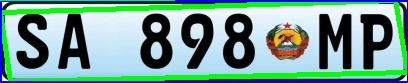
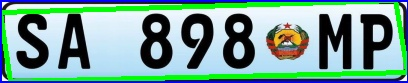
Funcionando um pouco melhor, conseguindo diferenciar H do M

Changed region(s): [[0.0, 0.0, 0.4412, 0.0482]]

diff --git a/trabalho_final_v2/detector.py b/trabalho_final_v2/detector.py
@@ -148,7 +148,7 @@ class DetectorPlacas:
     
     def preparar_para_ocr(self, placa_img):
         """
-        Prepara a imagem da placa para OCR
+        Prepara a imagem da placa para OCR com processamento avançado
         
         Args:
             placa_img: Imagem da placa
@@ -159,33 +159,111 @@ class DetectorPlacas:
         # Converter para escala de cinza
         gray = cv2.cvtColor(placa_img, cv2.COLOR_BGR2GRAY)
         
-        # Aplicar threshold adaptativo
-        thresh = cv2.adaptiveThreshold(
-            gray, 255, cv2.ADAPTIVE_THRESH_GAUSSIAN_C, 
-            cv2.THRESH_BINARY, 11, 2
+        # Redimensionar para tamanho maior ANTES do processamento (melhor para OCR)
+        scale = 4  # Aumentado de 3 para 4
+        largura = int(gray.shape[1] * scale)
+        altura = int(gray.shape[0] * scale)
+        resized = cv2.resize(gray, (largura, altura), interpolation=cv2.INTER_CUBIC)
+        
+        # Aplicar denoising mais forte
+        denoised = cv2.fastNlMeansDenoising(resized, None, h=15, templateWindowSize=7, searchWindowSize=21)
+        
+        # CLAHE para melhor contraste
+        clahe = cv2.createCLAHE(clipLimit=3.0, tileGridSize=(8,8))
+        contraste = clahe.apply(denoised)
+        
+        # Binarização adaptativa com parâmetros ajustados
+        binary = cv2.adaptiveThreshold(
+            contraste, 255, cv2.ADAPTIVE_THRESH_GAUSSIAN_C, 
+            cv2.THRESH_BINARY, 21, 15
         )
         
-        # Inverter se necessário (letras brancas em fundo preto)
-        # Contar pixels brancos e pretos
-        total_pixels = thresh.size
-        white_pixels = np.sum(thresh == 255)
+        # Inverter se fundo for escuro
+        if np.mean(binary) < 127:
+            binary = cv2.bitwise_not(binary)
         
-        if white_pixels < total_pixels / 2:
-            thresh = cv2.bitwise_not(thresh)
+        # Operações morfológicas mais suaves
+        kernel = np.ones((2,2), np.uint8)
+        morph = cv2.morphologyEx(binary, cv2.MORPH_CLOSE, kernel, iterations=1)
+        morph = cv2.morphologyEx(morph, cv2.MORPH_OPEN, kernel, iterations=1)
         
-        # Remover ruído
-        kernel = np.ones((3, 3), np.uint8)
-        thresh = cv2.morphologyEx(thresh, cv2.MORPH_OPEN, kernel)
-        thresh = cv2.morphologyEx(thresh, cv2.MORPH_CLOSE, kernel)
+        # Adicionar borda branca (ajuda o OCR)
+        bordered = cv2.copyMakeBorder(morph, 20, 20, 20, 20, 
+                                       cv2.BORDER_CONSTANT, value=255)
         
-        # Redimensionar para melhorar OCR
-        thresh = cv2.resize(thresh, None, fx=2, fy=2, interpolation=cv2.INTER_CUBIC)
+        return bordered
+    
+    def _pontuacao_formato(self, texto):
+        """Calcula pontuação baseada na proximidade com formato de placa"""
+        pontos = 0
+        texto_limpo = re.sub(r'[^A-Z0-9]', '', texto.upper())
         
-        return thresh
+        # Tamanho ideal: 8 caracteres (AAA###AA)
+        if len(texto_limpo) == 8:
+            pontos += 10
+        elif 7 <= len(texto_limpo) <= 9:
+            pontos += 5
+        
+        # Padrão Moçambique: 3 letras + 3 números + 2 letras
+        if re.match(r'^[A-Z]{3}[0-9]{3}[A-Z]{2}$', texto_limpo):
+            pontos += 20
+        elif re.match(r'^[A-Z]{3}[0-9]{3}', texto_limpo):
+            pontos += 10
+        
+        return pontos
+    
+    def corrigir_confusoes_comuns(self, texto):
+        """
+        Corrige confusões comuns de OCR baseado na posição dos caracteres
+        e padrões de placas moçambicanas (AAA###AA)
+        
+        Args:
+            texto: Texto extraído pelo OCR
+            
+        Returns:
+            Texto corrigido
+        """
+        if len(texto) < 8:
+            return texto
+        
+        texto_lista = list(texto)
+        
+        # Posições 0-2: devem ser LETRAS
+        for i in range(min(3, len(texto_lista))):
+            # Números confundidos com letras
+            texto_lista[i] = texto_lista[i].replace('0', 'O')
+            texto_lista[i] = texto_lista[i].replace('1', 'I')
+            texto_lista[i] = texto_lista[i].replace('5', 'S')
+            texto_lista[i] = texto_lista[i].replace('8', 'B')
+        
+        # Posições 3-5: devem ser NÚMEROS
+        for i in range(3, min(6, len(texto_lista))):
+            # Letras confundidas com números
+            texto_lista[i] = texto_lista[i].replace('O', '0')
+            texto_lista[i] = texto_lista[i].replace('I', '1')
+            texto_lista[i] = texto_lista[i].replace('Z', '2')
+            texto_lista[i] = texto_lista[i].replace('S', '5')
+            texto_lista[i] = texto_lista[i].replace('B', '8')
+        
+        # Posições 6-7: devem ser LETRAS
+        for i in range(6, min(8, len(texto_lista))):
+            # Números confundidos com letras
+            texto_lista[i] = texto_lista[i].replace('0', 'O')
+            texto_lista[i] = texto_lista[i].replace('1', 'I')
+            texto_lista[i] = texto_lista[i].replace('5', 'S')
+            texto_lista[i] = texto_lista[i].replace('8', 'B')
+            
+            # Correção específica H -> M (H é frequentemente confundido com M)
+            # Na primeira letra do sufixo (posição 6), H geralmente é M
+            if i == 6 and texto_lista[i] == 'H':
+                texto_lista[i] = 'M'
+        
+        texto_corrigido = ''.join(texto_lista)
+        return texto_corrigido
     
     def ler_placa_ocr(self, placa_processada):
         """
-        Lê o texto da placa usando OCR
+        Lê o texto da placa usando OCR com múltiplas tentativas e correções
         
         Args:
             placa_processada: Imagem da placa processada
@@ -194,17 +272,52 @@ class DetectorPlacas:
             Texto da placa
         """
         try:
-            # Aplicar OCR
-            texto = pytesseract.image_to_string(
-                placa_processada, 
-                config=self.tesseract_config
-            )
+            tentativas = []
             
-            # Limpar texto
+            # Configurações diferentes para tentar
+            configs = [
+                '--oem 3 --psm 7 -c tessedit_char_whitelist=ABCDEFGHIJKLMNOPQRSTUVWXYZ0123456789',
+                '--oem 3 --psm 8 -c tessedit_char_whitelist=ABCDEFGHIJKLMNOPQRSTUVWXYZ0123456789',
+                '--oem 1 --psm 7 -c tessedit_char_whitelist=ABCDEFGHIJKLMNOPQRSTUVWXYZ0123456789'
+            ]
+            
+            # Tentativa 1: Imagem original
+            for config in configs:
+                texto = pytesseract.image_to_string(placa_processada, config=config)
+                texto = texto.strip().upper()
+                texto = re.sub(r'[^A-Z0-9]', '', texto)
+                if texto:
+                    tentativas.append(texto)
+            
+            # Tentativa 2: Com mais contraste
+            contraste = cv2.convertScaleAbs(placa_processada, alpha=1.5, beta=0)
+            texto = pytesseract.image_to_string(contraste, config=configs[0])
             texto = texto.strip().upper()
             texto = re.sub(r'[^A-Z0-9]', '', texto)
+            if texto:
+                tentativas.append(texto)
             
-            return texto
+            # Tentativa 3: Com inversão
+            invertida = cv2.bitwise_not(placa_processada)
+            texto = pytesseract.image_to_string(invertida, config=configs[0])
+            texto = texto.strip().upper()
+            texto = re.sub(r'[^A-Z0-9]', '', texto)
+            if texto:
+                tentativas.append(texto)
+            
+            if not tentativas:
+                return ""
+            
+            # Aplicar correções em todas as tentativas
+            tentativas_corrigidas = [self.corrigir_confusoes_comuns(t) for t in tentativas]
+            
+            # Debug: mostrar tentativas
+            print(f"   Tentativas OCR: {tentativas_corrigidas[:3]}")
+            
+            # Pegar a melhor tentativa (maior pontuação)
+            melhor = max(tentativas_corrigidas, key=lambda t: self._pontuacao_formato(t))
+            
+            return melhor
         except Exception as e:
             print(f"Erro no OCR: {e}")
             return ""
@@ -222,17 +335,28 @@ class DetectorPlacas:
             Texto formatado (ou vazio se inválido)
         """
         texto_limpo = re.sub(r'[^A-Z0-9]', '', texto)
-        # Se vier com 9 caracteres, tenta remover o caractere extra central
-        if len(texto_limpo) == 9:
-            # Remove o caractere na posição 6 se as duas últimas posições não forem letras
-            if not (texto_limpo[7].isalpha() and texto_limpo[8].isalpha()):
-                texto_limpo = texto_limpo[:6] + texto_limpo[7:]
-            # Se ainda não for válido, tenta remover o caractere na posição 6 se não for letra
-            elif not texto_limpo[6].isalpha():
-                texto_limpo = texto_limpo[:6] + texto_limpo[7:]
+        
+        # Se vier com 9+ caracteres, tenta identificar e remover caracteres extras
+        if len(texto_limpo) > 8:
+            # Estratégia: procurar padrão AAA### e pegar os 2 últimos caracteres alfabéticos
+            # Remove caracteres extras que geralmente aparecem após os números
+            match = re.match(r'^([A-Z]{3})([0-9]{3})(.*)$', texto_limpo)
+            if match:
+                prefixo = match.group(1)  # AAA
+                numeros = match.group(2)  # ###
+                resto = match.group(3)    # resto (pode ter caracteres extras)
+                
+                # Pegar apenas as letras do resto (ignorar números extras)
+                letras_finais = re.sub(r'[^A-Z]', '', resto)
+                
+                # Se temos exatamente 2 letras, usar elas
+                if len(letras_finais) >= 2:
+                    texto_limpo = prefixo + numeros + letras_finais[:2]
+        
         # Só aceita se tiver 8 caracteres
         if len(texto_limpo) != 8:
             return ""
+        
         padrao_mocambique = r'^[A-Z]{3}[0-9]{3}[A-Z]{2}$'
         if re.match(padrao_mocambique, texto_limpo):
             return f"{texto_limpo[:3]} {texto_limpo[3:6]} {texto_limpo[6:]}"
